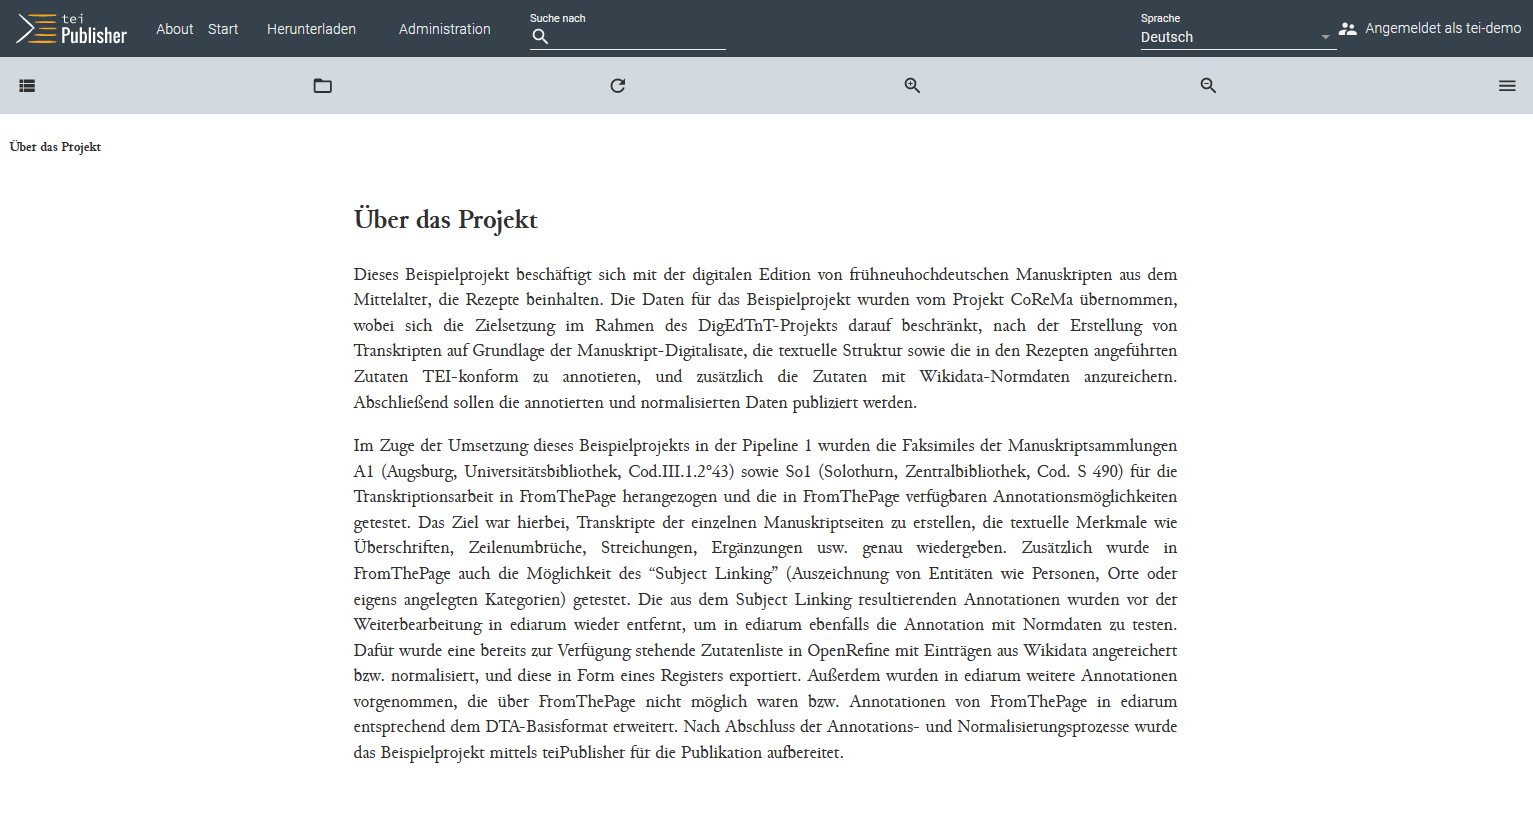
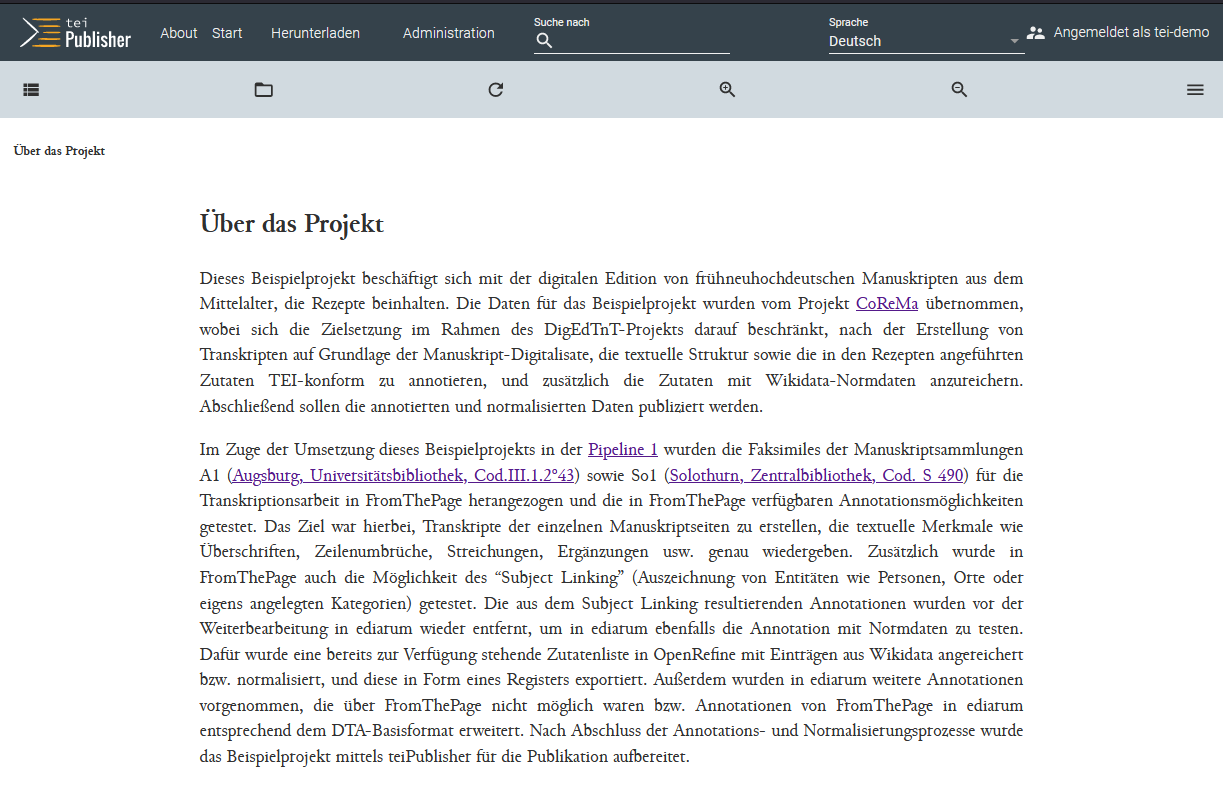
update teipublisher

Changed region(s): [[0.1554, 0.2412, 0.8389, 0.9648], [0.0, 0.0, 1.0, 0.2111]]

diff --git a/_posts/2023-10-09-teipublisher.md b/_posts/2023-10-09-teipublisher.md
@@ -263,6 +263,10 @@ Für eine vollständige Publikationsansicht (Content View) benötigt man die TEI
         → Damit die Faksimiles tatsächlich angezeigt werden, müssen wir noch weitere Adaptionen vornehmen, die im Abschnitt [c.) Bearbeitung des Page Templates](https://digedtnt.github.io/teipublisher/#c-bearbeitung-des-page-templates--weitere-odd-anpassungen) näher ausgeführt sind.
         Mit all diesen Adaptionen haben wir aber jedenfalls in der Publikationsansicht eine zusätzliche Zeile vor Textbeginn erzeugt.
         {% include image.html url="../data/pipelines/pipeline_1/teipublisher/img/model-pb-pub.PNG" description="Publikationsansicht mit zusätzlicher Seitenangabe" %}
+* In dem zweiten Manuskript unseres Beispielprojekts gibt es jetzt bis auf das `&lt;fw>`-Element keine zusätzlichen Elemente mehr, die einer Bearbeitung bedürfen. Wie legen also eine neue Modellspezifikation für `&lt;fw>`-Elemente mit dem Attribut `&lt;@type=”header”>` an, wählen als behaviour “block” und definieren anschließend die Rendition mit CSS-Code, der diese Textstelle etwas vergrößert, fett ausgibt und zentriert.
+    {% include image.html url="../data/pipelines/pipeline_1/teipublisher/img/model-fw-head.PNG" description="Anpassung eines weiteren Elements des 2. Manuskripts" %}
+    In der Publikationsansicht sehen wir nach dem Aktualisieren schließlich das Ergebnis unserer Änderung.
+    {% include image.html url="../data/pipelines/pipeline_1/teipublisher/img/model-fw-head-pub.PNG" description="Publikationsansicht des fw-Elements mit Faksimile-Abgleich" %}
 
 
 ### b. Bearbeitung des ODD des Zutatenregisters
@@ -330,7 +334,7 @@ In unserem Projekt gibt es aber nicht nur die XML-Dateien für das Manuskript, s
 
 * Eine weitere Webkomponente, die uns die Seitennavigation im Manuskript erleichtert, ist [`<pb-navigation>`](https://cdn.tei-publisher.com/@2.12.6/dist/api.html#pb-navigation.0). Auch hier nutzen wir wieder die Beispielprojekte der Demo-Sammlung, in der wir gleich im ersten Beispiel (Adagia in Latine and English) die entsprechenden Navigationsbuttons finden. Wenn wir in der Seitenleiste nun überprüfen, welches Template eingebunden wurde, können wir sehen, dass dieses Beispielprojekt das **Default single text layout** nutzt.
     {% include image.html url="../data/pipelines/pipeline_1/teipublisher/img/webcomponent-navigation.PNG" description="Demo-Projekt mit Navigationsbuttons" %}
-    Wir öffnen daher in eXide das entsprechende Template (view.html) und können erneut per "Copy-Paste" die gewünschte Webkomponenten - in diesem Fall die jeweiligen `<pb-navigation>`-Komponenten des `<main>`-Abschnitts vor und nach der `<pb-view>`-Webkomponente - auswählen und in unser projektspezifisches Template an entsprechender Stelle vor und nach den anderen Webkomponenten des `<main>`-Abschnitts einbauen. Dadurch ersparen wir uns die Suche in der Dokumentation nach entsprechenden Komponenten bzw. müssen die Webkomponenten nicht selbst anlegen.
+    Wir öffnen daher in eXide das entsprechende Template (view.html) und können erneut per "Copy-Paste" die gewünschte Webkomponenten - in diesem Fall die jeweiligen `<pb-navigation>`-Komponenten des `<main>`-Abschnitts vor und nach der `<pb-view>`-Webkomponente - auswählen und in unser projektspezifisches Template an entsprechender Stelle vor und nach den anderen Webkomponenten des `<main>`-Abschnitts einbauen. Dadurch ersparen wir uns die Suche in der [Dokumentation](https://teipublisher.com/exist/apps/tei-publisher/documentation/webcomponents) nach entsprechenden Komponenten bzw. müssen die Webkomponenten nicht selbst anlegen.
     {% include image.html url="../data/pipelines/pipeline_1/teipublisher/img/webcomponent-nav-html.PNG" description="Wiederverwendung bereits bestehender Webkomponenten" %}
     In der Dokumentenansicht sehen wir nun, dass die Navigationsbutton noch nicht an gewünschter Stelle sind.
     {% include image.html url="../data/pipelines/pipeline_1/teipublisher/img/webcomponent-nav-view.PNG" description="Eingefügte Navigationsbuttons" %}
@@ -371,7 +375,7 @@ Zuletzt möchten wir das erstellte ODD, die HTML Templates und Webkomponenten in
     {% include image.html url="../data/pipelines/pipeline_1/teipublisher/img/app-options.PNG" description="Bearbeitungsmöglichkeiten innerhalb der App" %}
 * Einzig das XML mit dem Zutatenregister wird noch nicht richtig dargestellt, da es ebenfalls standardmäßig mit dem ODD für die Manuskripte verknüpft wird und nicht mit dem eigens für die Zutaten erstellten ODD.
     {% include image.html url="../data/pipelines/pipeline_1/teipublisher/img/app-register-odd-error.PNG" description="Fehlerhafte Darstellung des Zutatenregisters" %}
-    Wie in der Dokumentation des TEI Publishers beschrieben, kann man die ODD- und HTML-Verknüpfung für einzelne Dokumente aber über die Datei “config.xqm” im Ordner **module** unserer App konfigurieren. Dementsprechend haben wir für unser Projekt die Datei mit dem Zutatenregister mit dem ODD für die Zutaten und dem “view.html” anstelle des eigens angepassten HTML-Templates verknüpft.
+    Wie in der [Dokumentation des TEI Publishers](https://teipublisher.com/exist/apps/tei-publisher/documentation/multiple-odds) beschrieben, kann man die ODD- und HTML-Verknüpfung für einzelne Dokumente aber über die Datei “config.xqm” im Ordner **module** unserer App konfigurieren. Dementsprechend haben wir für unser Projekt die Datei mit dem Zutatenregister mit dem ODD für die Zutaten und dem “view.html” anstelle des eigens angepassten HTML-Templates verknüpft.
     {% include image.html url="../data/pipelines/pipeline_1/teipublisher/img/app-register-config.PNG" description="Sonderregelungen für das Zutatenregister" %}
     Nach dem Aktualisieren des Zutatenregisters in der Publikationsansicht, wird auch dieses XML wieder richtig dargestellt.
 * Da wir nun aber jedenfalls das Logo sowie die Farben unserer App anpassen möchten, wechseln wir wieder in eXide. Wir öffnen dafür als erstes unsere App und finden dort unter im Ordner **templates/pages** die Datei “ma-rezepte.html”, in der wir auch alle weiteren Bausteine unserer Website finden. Im Element `<app-header>` sehen wir schließlich, dass die Toolbar über ein anderes Template geladen wird und zwar “menu.html”, das im übergeordneten Ordner **templates** innerhalb unserer App zu finden ist.
